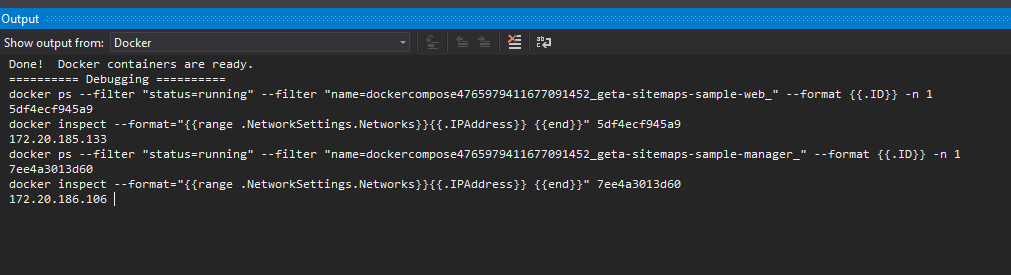
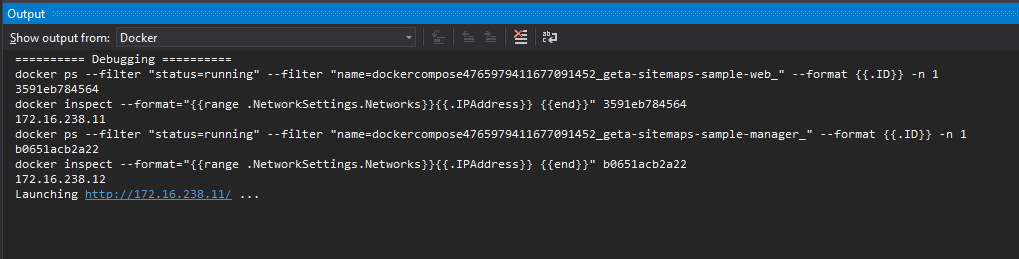
Add documentation for static IP's

Changed region(s): [[0.0, 0.2162, 0.9505, 0.7722], [0.0, 0.0, 1.0, 0.1853]]

diff --git a/README.md b/README.md
@@ -107,9 +107,15 @@ Set the `docker-compose` as default project (if not already by default). Now, th
 
 After the images are downloaded just run the project and start debugging the code. The frontend and backend code can be found in the Geta.SEO.Sitemaps and Geta.SEO.Sitemaps.Commerce project. The frontend code is available under the module folder.
 
-When the browser is not automatically opened, go to the docker output window and check the IP addresses. You'll find two IP's one for QuickSilver and one for the manager. Just browse to the IP address.
+When the browser is not automatically opened, go to the docker output window and check the IP addresses.
 
 ![Docker debugging output](docs/images/docker-debugging-output.PNG)
+
+You can find the IP addresses also in the `docker-compose.yml` for Quicksilver and manager:
+| Site | IP Address |
+| ------------- |:-------------:|
+| Quicksilver | 172.16.238.11 |
+| Manager | 172.16.238.12 |
 
 ### QuickSilver login
 
